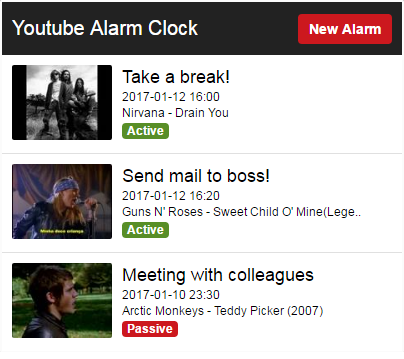
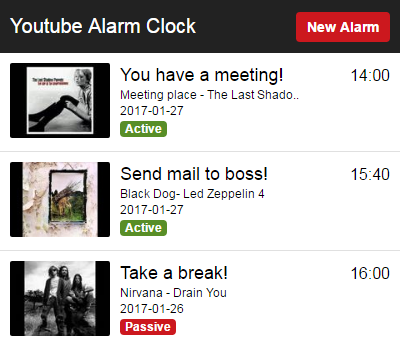
edit: date and time

diff --git a/js/popup.js b/js/popup.js
@@ -16,6 +16,87 @@ var app = {
         });
     },
 
+    getAlarms: function () {
+
+        var self = this;
+        $('.alarms-list').html('');
+        $('.loader').show();
+
+        chrome.storage.local.get('alarms', function (data) {
+
+            if (typeof data.alarms !== 'undefined' && data.alarms.length > 0) {
+                data.alarms.reverse();
+                console.log("storage.local.get:", data.alarms);
+                // set alarms status
+                chrome.alarms.getAll(function(alarms) {
+                    console.log("alarms.getAll", alarms);
+                    for (var i = 0; i < data.alarms.length; i++) {
+                        data.alarms[i]['status'] = 'off';
+                        for (var j = 0; j < alarms.length; j++) {
+                            if (alarms[j]['name'] == data.alarms[i]['name']) {
+                                data.alarms[i]['status'] = 'on';
+                            }
+                        }
+                    }
+
+                    // set content
+                    var alarmsHTML = '';
+                    for (var i = 0; i < data.alarms.length; i++) {
+
+                        var name = data.alarms[i]['name'];
+                        var nameFull = data.alarms[i]['name'];
+                        var date = data.alarms[i]['date'];
+                        var time = data.alarms[i]['time'];
+                        var status = data.alarms[i]['status'];
+                        var image = data.alarms[i]['image'];
+                        var videoTitle = data.alarms[i]['videoTitle'];
+
+                        console.log(new Date(date + ':00'));
+
+                        if (name.length > 19) {
+                            name = name.substring(0, 19) + '..';
+                        }
+
+                        if (videoTitle.length > 30) {
+                            videoTitle = videoTitle.substring(0, 30) + '..';
+                        }
+
+                        alarmsHTML += '<li class="row '+ name +'">' +
+                        '<div class="image">\n' +
+                            '<img src="'+ image +'">\n' +
+                        '</div>\n' +
+                        '<div class="info">\n' +
+                            '<p class="alarm-name" title="'+ nameFull +'">'+ name +'</p>\n' +
+                            '<p class="video-title">'+ videoTitle +'</p>\n' +
+                            '<p class="alarm-date">'+ date +'</p>\n' +
+                            '<p class="status '+ status +'"></p>\n' + 
+                        '</div>\n' +
+                        '<div class="time">\n' +
+                            '<p>'+ time +'</p>'
+                        '</div>\n' +
+                        '</li>\n';
+                    }
+
+                    $('.alarms-list').html(alarmsHTML);
+                    $('.no-alarm').hide();
+
+                    // bind click event to alarms
+                    $('.alarms-list li.row').click(function () {
+                        var alarmName = $(this).attr('class').replace('row ', '');
+                        self.updateAlarm(alarmName);
+                    });
+
+                    self.goBack();
+                    $('.loader').hide();
+                });
+
+            } else {
+                $('.no-alarm').show();
+                $('.loader').hide();
+            }
+        });
+    },
+
     createAlarm: function () {
 
         var self = this;
@@ -39,7 +120,8 @@ var app = {
 
             var alarm = {};
             alarm.name = $('input[name=alarm-name]').val();
-            alarm.date = $('input[name=alarm-date]').val() + ' ' + $('input[name=alarm-time]').val();
+            alarm.date = $('input[name=alarm-date]').val();
+            alarm.time = $('input[name=alarm-time]').val();
             alarm.videoLink = $('input[name=video-link]').val();
             alarm.videoId = self.getVideoId(alarm.videoLink);
 
@@ -49,7 +131,7 @@ var app = {
 
             // validate alarm date
             var now = new Date().getTime();
-            var alarmDate = new Date(alarm.date).getTime();
+            var alarmDate = new Date(alarm.date + ' ' + alarm.time + ':00').getTime();
 
             if (alarmDate > now) { // create alarm
                 chrome.alarms.create(alarm.name, {when: alarmDate});
@@ -99,76 +181,6 @@ var app = {
         });
     },
 
-    getAlarms: function () {
-
-        var self = this;
-        $('.alarms-list').html('');
-        $('.loader').show();
-
-        chrome.storage.local.get('alarms', function (data) {
-
-            if (typeof data.alarms !== 'undefined' && data.alarms.length > 0) {
-                data.alarms.reverse();
-                console.log("storage.local.get:", data.alarms);
-                // set alarms status
-                chrome.alarms.getAll(function(alarms) {
-                    console.log("alarms.getAll", alarms);
-                    for (var i = 0; i < data.alarms.length; i++) {
-                        data.alarms[i]['status'] = 'off';
-                        for (var j = 0; j < alarms.length; j++) {
-                            if (alarms[j]['name'] == data.alarms[i]['name']) {
-                                data.alarms[i]['status'] = 'on';
-                            }
-                        }
-                    }
-
-                    // set content
-                    var alarmsHTML = '';
-                    for (var i = 0; i < data.alarms.length; i++) {
-
-                        var name = data.alarms[i]['name'];
-                        var date = data.alarms[i]['date'];
-                        var status = data.alarms[i]['status'];
-                        var image = data.alarms[i]['image'];
-                        var videoTitle = data.alarms[i]['videoTitle'];
-
-                        if (videoTitle.length > 40) {
-                            videoTitle = videoTitle.substring(0, 40) + '..';
-                        }
-
-                        alarmsHTML += '<li class="row '+ name +'">' +
-                        '<div class="image">\n' +
-                        '<img src="'+ image +'">\n' +
-                        '</div>\n' +
-                        '<div class="info">\n' +
-                        '<p class="alarm-name">'+ name +'</p>\n' +
-                        '<p class="alarm-date">'+ date +'</p>\n' +
-                        '<p class="video-title">'+ videoTitle +'</p>\n' +
-                        '<p class="status '+ status +'"></p>\n' + 
-                        '</div>\n' +
-                        '</li>\n';
-                    }
-
-                    $('.alarms-list').html(alarmsHTML);
-                    $('.no-alarm').hide();
-
-                    // bind click event to alarms
-                    $('.alarms-list li.row').click(function () {
-                        var alarmName = $(this).attr('class').replace('row ', '');
-                        self.updateAlarm(alarmName);
-                    });
-
-                    self.goBack();
-                    $('.loader').hide();
-                });
-
-            } else {
-                $('.no-alarm').show();
-                $('.loader').hide();
-            }
-        });
-    },
-
     updateAlarm: function (alarmName) {
 
         var self = this;
@@ -180,9 +192,10 @@ var app = {
             for (var i = 0; i < data.alarms.length; i++) {
                 if (alarmName == data.alarms[i]['name']) {
                     console.log(data.alarms[i]);
-                    var date = new Date(data.alarms[i]['date'] + ':00');
-                    var dateInput = date.getFullYear() + '-' + self.pad(date.getMonth() + 1) + '-' + date.getDate();
-                    var time = data.alarms[i]['date'].split(' ')[1];
+                    //var date = new Date(data.alarms[i]['date'] + '00:00:00');
+                    //var dateInput = date.getFullYear() + '-' + self.pad(date.getMonth() + 1) + '-' + date.getDate();
+                    var dateInput = data.alarms[i]['date'];
+                    var time = data.alarms[i]['time'];
 
                     $('#form-update input[name=alarm-name]').val(alarmName);
                     $('#form-update input[name=alarm-date]').val(dateInput);
@@ -200,13 +213,14 @@ var app = {
 
             var alarm = {};
             alarm.name = $('#form-update input[name=alarm-name]').val();
-            alarm.date = $('#form-update input[name=alarm-date]').val() + ' ' + $('#form-update input[name=alarm-time]').val();
+            alarm.date = $('#form-update input[name=alarm-date]').val();
+            alarm.time = $('#form-update input[name=alarm-time]').val();
             alarm.videoLink = $('#form-update input[name=video-link]').val();
             alarm.videoId = self.getVideoId(alarm.videoLink);
 
             // validate alarm date
             var now = new Date().getTime();
-            var alarmDate = new Date(alarm.date).getTime();
+            var alarmDate = new Date(alarm.date + ' ' + alarm.time + ':00').getTime();
             
             // delete alarm and create new one
             if (alarmDate > now) {

diff --git a/css/style.css b/css/style.css
@@ -15,6 +15,7 @@ main {min-width: 400px; padding: 0 10px 10px 10px; padding: 0}
 .alarms-list .image {float: left; width: 100px; padding: 10px 0 10px 0;}
 .alarms-list .image img {width: 100%; height: 100%; border-radius: 2px;}
 .alarms-list .info {float: left; padding: 10px;}
+.alarms-list .time {float: right; padding: 12px 0 10px 5px; font-size: 16px;}
 .alarms-list p {margin: 2px 0;}
 .alarms-list .alarm-name {font-size: 18px;}
 .alarms-list .status {border-radius: 4px; color: #fff; display: -webkit-inline-box;}
